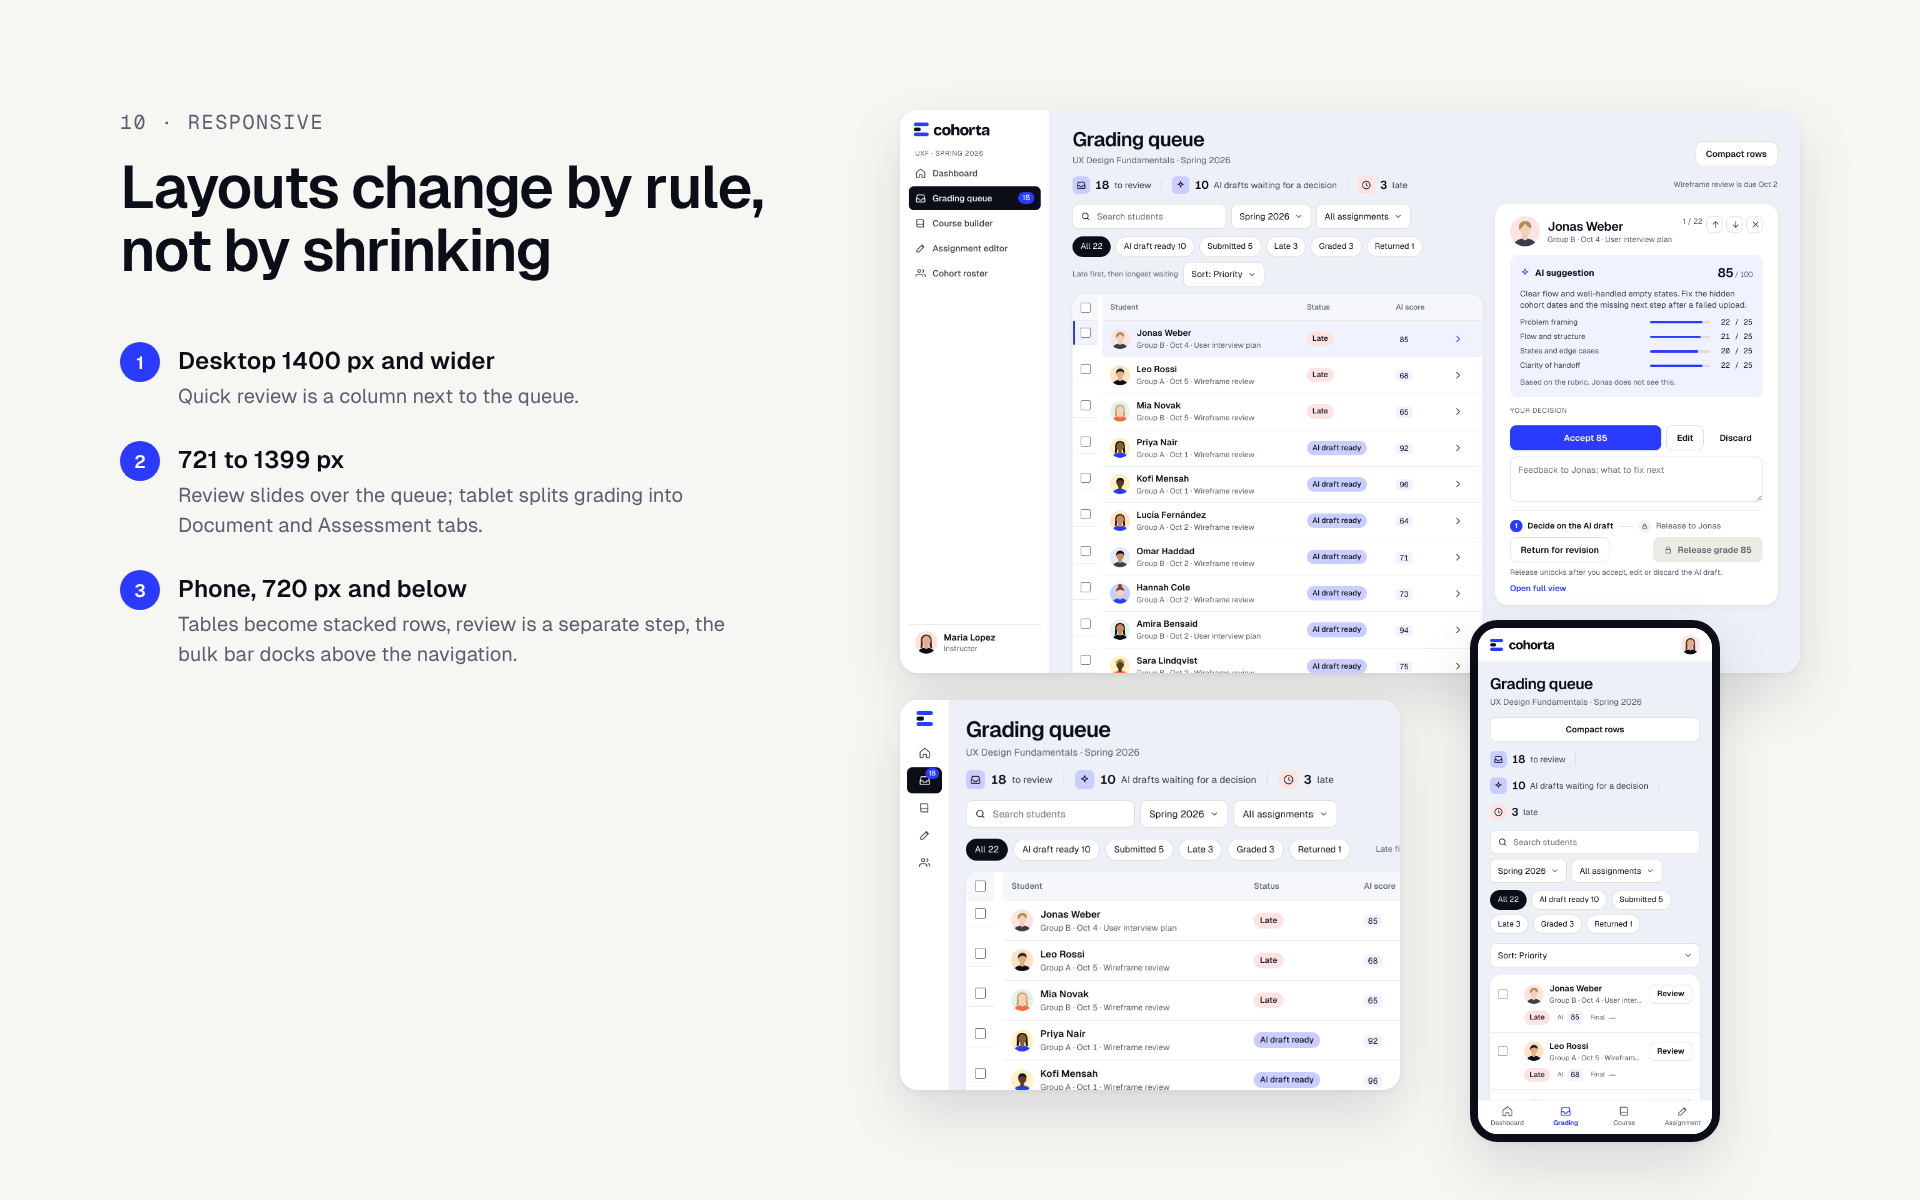
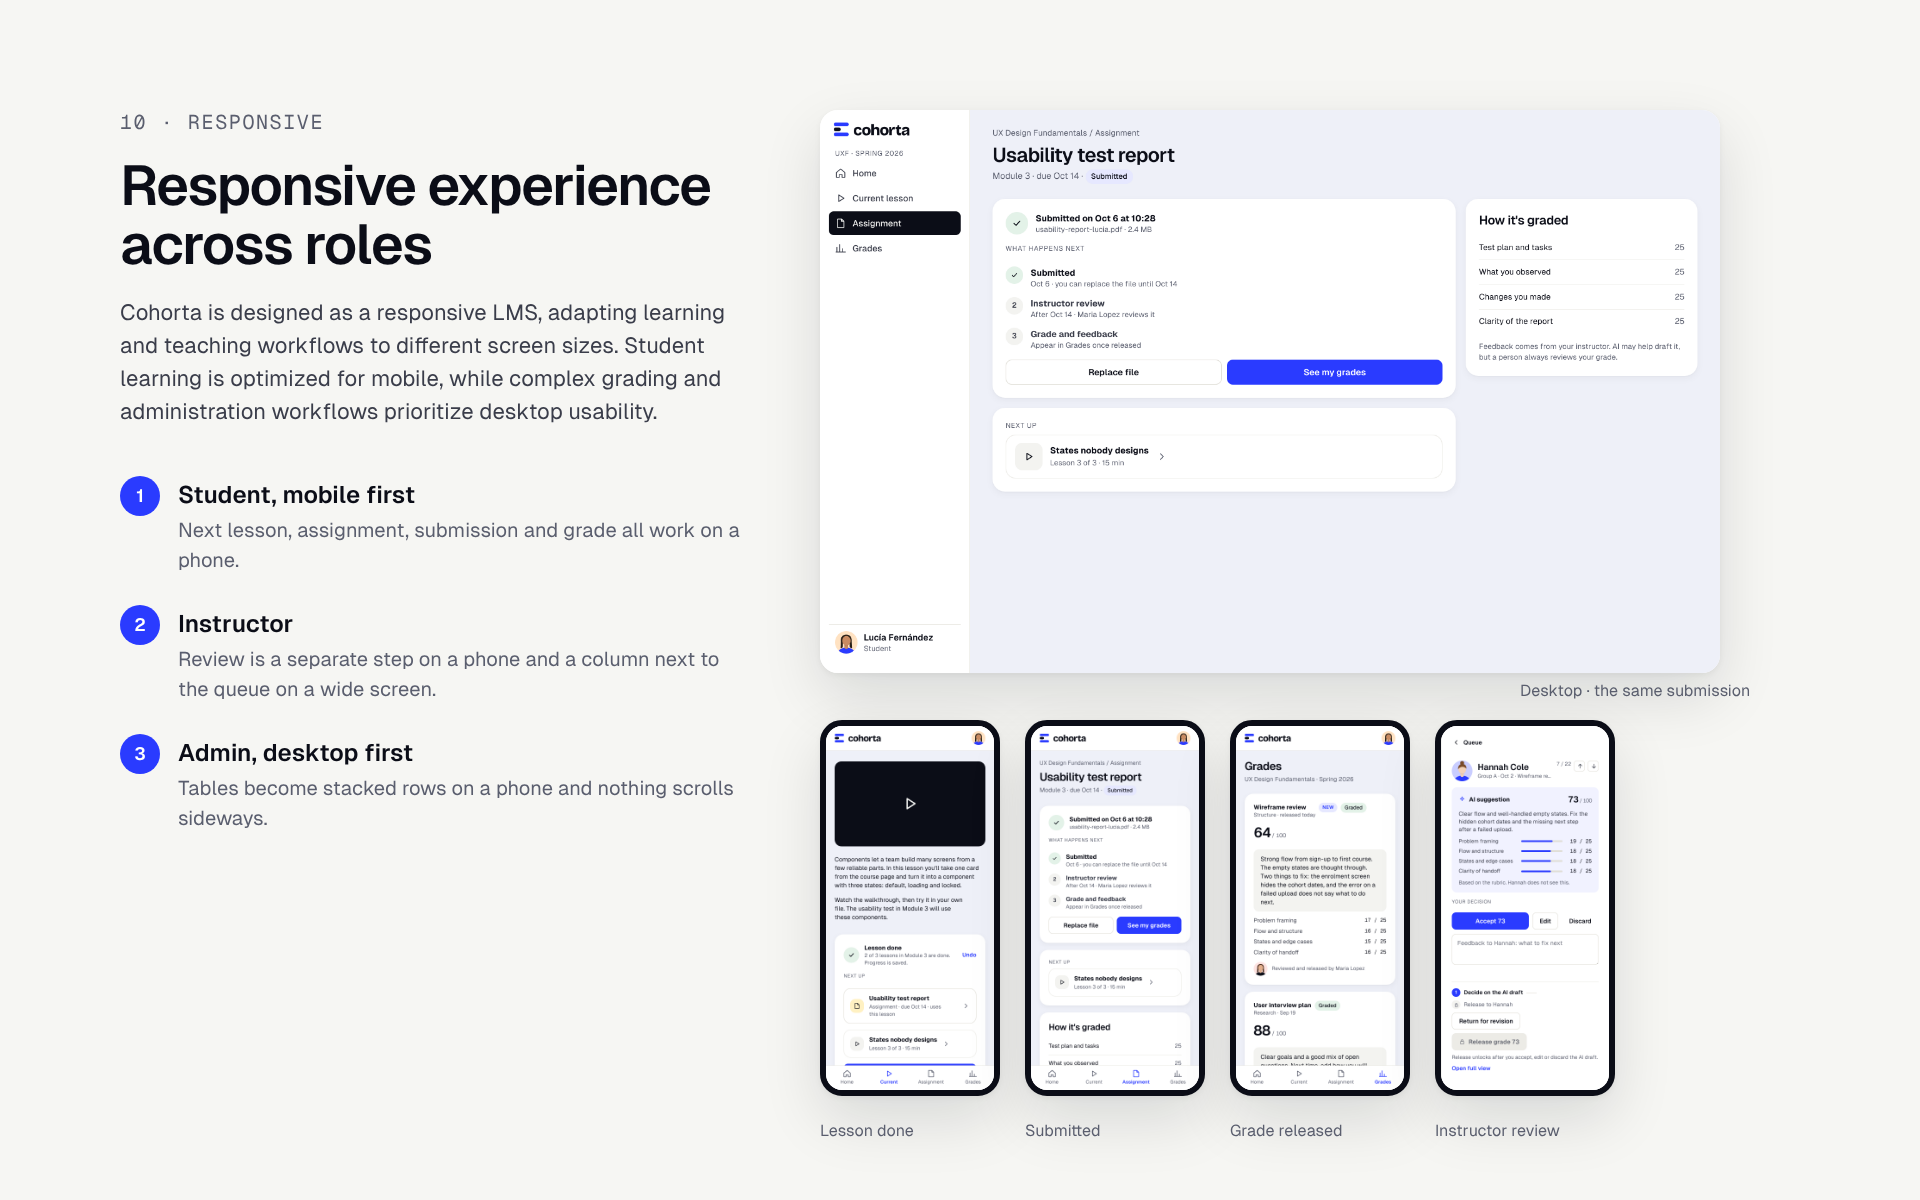
Case: Responsive experience across roles (README section and slide 11)
Claude-Session: https://claude.ai/code/session_013EWPuoJWmvudSPMU5kALcY

diff --git a/README.md b/README.md
@@ -29,7 +29,7 @@ Online schools run the same course for several cohorts at once. Students, instru
 
 | Role | Key flows |
 |---|---|
-| Student | Course home with the next step, lesson, locked lesson, assignment upload, grades |
+| Student | One finished flow: course home with the next step, lesson marked as done, assignment (choose a file, then submit), what happens next, grades with a grade the instructor released in the same session. Also the locked lesson |
 | Instructor | Grading queue with filters and bulk actions, quick review panel, full grading view with AI draft, course builder, assignment editor, roster |
 | Teaching assistant | The same grading tools scoped to Group A, in a simpler view: queue without the Group column, quick review over the queue, grading view, group roster. Work from other groups opens as No access, and a released grade is locked with a note that only the instructor can change it |
 | Admin | Overview, course review and publishing, cohort scheduling, enrolments with bulk pause and undo, users and roles with an audit log |
@@ -51,6 +51,16 @@ Motion appears only where it explains an action or a state: the review panel sli
 ## Visual layer
 
 The original white sidebar with the cobalt logo, content on a light canvas, and white cards with a barely visible shadow. People are drawn as illustrated, faceless avatars generated from their names, so long-data names get a stable drawing too. For instructors on screens 1400 px and wider the quick review is a column next to the grading queue: any row opens in one click and the queue is never dimmed. Below 1400 px, and always for a teaching assistant, it slides over the queue; on a phone review is a separate step. Release has three visible states: locked until a decision on the AI draft, ready with a preview of what the student will see, and released with a few seconds to undo.
+
+## Responsive experience across roles
+
+Cohorta is designed as a responsive LMS, adapting learning and teaching workflows to different screen sizes. Student learning is optimized for mobile, while complex grading and administration workflows prioritize desktop usability.
+
+- **Student, mobile first.** The whole flow works on a phone: next lesson, assignment, submission and the released grade. Every phone page keeps space above the bottom navigation, so the last card is never hidden.
+- **Instructor.** On a phone the queue and the review are separate steps with a clear way back; on a wide screen the review is a column next to the queue.
+- **Admin, desktop first.** Bulk work, tables and roles are built for a desktop. On a phone tables become stacked rows and nothing scrolls sideways.
+
+Checked at 360, 390 and 430 px for phones, 1024 for tablets and 1440 for desktop, including the long data, loading and error states.
 
 ## Long content
 
